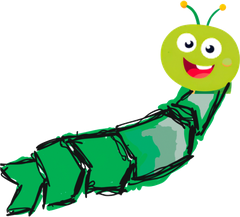
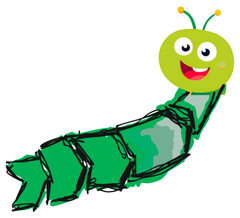
Feedback-Funktion und Wurm mit weißem Hintergrund

Changed region(s): [[0.0, 0.0, 1.0, 1.0]]

diff --git a/index.html b/index.html
@@ -192,6 +192,21 @@ pre{white-space:pre-wrap;background:var(--sunk);border-radius:10px;padding:12px;
 .nav button{flex:1;border:0;background:none;border-radius:12px;padding:8px 4px;display:flex;flex-direction:column;align-items:center;gap:2px;font-size:12.5px;font-weight:700;color:var(--muted)}
 .nav button[aria-current="page"]{background:var(--worm-soft);color:var(--worm-ink)}
 .nav svg{width:22px;height:22px}
+/* Feedback */
+.fb-card{background:var(--surface);border:1px solid var(--line);border-radius:var(--r);padding:16px;display:grid;gap:14px}
+.fb-card label{font-weight:700;display:block;margin-bottom:6px}
+.fb-card input[type=text],.fb-card input[type=email]{width:100%;border:1px solid var(--line);border-radius:10px;background:var(--surface);color:var(--fg);padding:10px 12px;font:inherit;font-size:15px}
+.fb-card input:focus-visible{outline:3px solid var(--worm);outline-offset:2px}
+.rate{display:flex;gap:8px}
+.rate button{flex:1;border:2px solid var(--line);background:var(--bg);border-radius:12px;padding:8px 2px;font-family:var(--display);font-weight:800;font-size:18px;display:flex;flex-direction:column;align-items:center;gap:2px}
+.rate button small{font-family:var(--body);font-size:11px;font-weight:700;color:var(--muted)}
+.rate button[aria-pressed="true"]{border-color:var(--worm);background:var(--worm-soft);color:var(--worm-ink)}
+.mail-box{display:flex;align-items:center;gap:10px;flex-wrap:wrap;background:var(--worm-soft);color:var(--worm-ink);border-radius:var(--r);padding:12px 14px}
+.mail-box b{font-family:var(--display);user-select:all;word-break:break-all}
+.ask{margin-top:24px;display:flex;gap:12px;align-items:center;background:var(--surface);border:1px dashed var(--soil);border-radius:var(--r);padding:14px}
+.ask p{margin:0;flex:1;min-width:0;font-size:14.5px}
+.ask .secondary{flex:none}
+.thanks{text-align:center;padding:22px}
 .toast{position:fixed;left:50%;bottom:calc(86px + env(safe-area-inset-bottom, 0px));transform:translateX(-50%);background:var(--fg);color:var(--bg);padding:10px 16px;border-radius:99px;font-weight:700;font-size:14px;opacity:0;transition:opacity .25s;pointer-events:none;z-index:20;max-width:calc(100% - 32px);text-align:center}
 .toast.show{opacity:1}
 @media (prefers-reduced-motion: reduce){*{transition:none!important;animation:none!important}}
@@ -242,6 +257,44 @@ pre{white-space:pre-wrap;background:var(--sunk);border-radius:10px;padding:12px;
     <p class="section-sub">Aufgebaut wie beim Sprachenlernen: A1 und A2 legen das Fundament, B1 und B2 machen dich sicher in der Praxis. Ab C1 wählst du deine Vertiefung, C2 ist der Blick aufs ganze Unternehmen.</p>
     <div class="depth"><span>Oberfläche</span><span>Tiefe</span></div>
     <div class="ladder" id="ladder"></div>
+    <div class="ask"><img src="wurm.png" width="44" height="40" alt="" class="wimg"><p><b>Fehlt dir ein Thema?</b> Sag's mir, dann grab ich mich rein.</p><button type="button" class="secondary" data-feedback="">Feedback geben</button></div>
+  </section>
+
+  <section class="view" id="v-feedback" hidden>
+    <h2 class="section-title">Dein Feedback</h2>
+    <p class="section-sub">Die Lernwerkstatt ist ein Hobbyprojekt und wächst mit euren Wünschen. Was hilft dir, was fehlt, worüber soll die nächste Lektion gehen?</p>
+    <form class="fb-card" id="fbForm" novalidate>
+      <div>
+        <span class="eyebrow" style="display:block;margin-bottom:6px">Wie hilfreich ist die Lernwerkstatt für dich?</span>
+        <div class="rate" id="rate" role="group" aria-label="Bewertung von 1 bis 5">
+          <button type="button" data-r="1" aria-pressed="false">1<small>kaum</small></button>
+          <button type="button" data-r="2" aria-pressed="false">2<small></small></button>
+          <button type="button" data-r="3" aria-pressed="false">3<small>okay</small></button>
+          <button type="button" data-r="4" aria-pressed="false">4<small></small></button>
+          <button type="button" data-r="5" aria-pressed="false">5<small>sehr</small></button>
+        </div>
+      </div>
+      <div><label for="fbText">Was gefällt dir, was nervt?</label>
+        <textarea id="fbText" placeholder="Ehrlich ist gut. Der Wurm verträgt das."></textarea></div>
+      <div><label for="fbTopic">Welches Thema fehlt dir?</label>
+        <input type="text" id="fbTopic" placeholder="z. B. Prozesse mit Excel dokumentieren"></div>
+      <div><label for="fbMail">Deine E-Mail <span style="font-weight:400;color:var(--muted)">(freiwillig, nur für eine Antwort)</span></label>
+        <input type="email" id="fbMail" placeholder="name@beispiel.de" autocomplete="email"></div>
+      <input type="hidden" id="fbLesson" value="">
+      <div class="hint" id="fbCtx" hidden></div>
+      <button type="submit" class="primary" id="fbSend" style="margin-top:4px">Feedback abschicken</button>
+      <p class="hint" style="margin:0">Landet direkt beim Prozesswurm. Bitte keine vertraulichen Firmendaten eintragen.</p>
+    </form>
+    <div class="fb-card thanks" id="fbThanks" hidden>
+      <img src="wurm.png" width="80" height="72" alt="" class="wimg" style="margin:0 auto">
+      <h3>Danke dir!</h3>
+      <p class="hint" style="margin:0">Dein Feedback ist unterwegs. Aus den Wünschen werden neue Lektionen.</p>
+      <button type="button" class="secondary" id="fbAgain" style="justify-self:center">Noch etwas schreiben</button>
+    </div>
+    <h3 class="section-title" style="font-size:18px">Lieber per E-Mail?</h3>
+    <div class="mail-box"><b id="mailAddr">prozesswurm@gmail.com</b>
+      <button type="button" class="secondary copy" data-copy="mailAddr">Kopieren</button>
+      <a href="mailto:prozesswurm@gmail.com?subject=Lernwerkstatt">E-Mail öffnen</a></div>
   </section>
 
   <section class="view" id="v-level" hidden></section>
@@ -329,6 +382,9 @@ Schreib einfach und ohne Fachbegriffe, so dass es ein Geschäftsführer ohne Vor
     <button type="button" data-tab="cheat">
       <svg viewBox="0 0 24 24" fill="none" stroke="currentColor" stroke-width="2" stroke-linecap="round" aria-hidden="true"><path d="M9 4h6l1 2h3v15H5V6h3z"/><path d="M9 12l2 2 4-4"/></svg>
       Spickzettel</button>
+    <button type="button" data-tab="feedback">
+      <svg viewBox="0 0 24 24" fill="none" stroke="currentColor" stroke-width="2" stroke-linejoin="round" aria-hidden="true"><path d="M4 5h16v11H9l-5 4z"/><path d="M8 9h8M8 12h5" stroke-linecap="round"/></svg>
+      Feedback</button>
   </div>
 </nav>
 <div class="toast" id="toast" role="status" aria-live="polite"></div>
@@ -514,7 +570,8 @@ function openLesson(id){
     ${l.tpl?`<div class="block"><h3>Zum Mitnehmen</h3><div class="tpl"><div class="copy-row"><b>${esc(l.tpl[0])}</b>
       <button type="button" class="secondary copy" data-copy="tpl-${id}">Kopieren</button></div><pre id="tpl-${id}">${esc(l.tpl[1])}</pre></div></div>`:''}
     <div class="block"><h3>Kurzer Check</h3>${checks}</div>
-    <button type="button" class="primary" id="finishBtn" ${isDone(id)?'':'disabled'}>${isDone(id)?'Weiter zur nächsten Lektion':(l.quiz?'Erst den Check beantworten':'Erst alle Antworten aufdecken')}</button>`;
+    <button type="button" class="primary" id="finishBtn" ${isDone(id)?'':'disabled'}>${isDone(id)?'Weiter zur nächsten Lektion':(l.quiz?'Erst den Check beantworten':'Erst alle Antworten aufdecken')}</button>
+    <div class="ask"><p>Unklar, zu trocken oder fehlt was? Sag's dem Wurm.</p><button type="button" class="secondary" data-feedback="${esc(ctx.label+' · '+l.t)}">Feedback zur Lektion</button></div>`;
   show('lesson'); window.scrollTo(0,0);
 
   v.querySelector('[data-back]').onclick = ()=> openLevel(ctx.i, ctx.key);
@@ -596,13 +653,14 @@ document.addEventListener('click', async e=>{
 
 /* Navigation */
 function show(name){
-  ['home','level','lesson','cards','cheat'].forEach(n=>$('#v-'+n).hidden = n!==name);
+  ['home','level','lesson','cards','cheat','feedback'].forEach(n=>$('#v-'+n).hidden = n!==name);
   const tab = (name==='level'||name==='lesson') ? 'home' : name;
   document.querySelectorAll('.nav button').forEach(b=>{ if(b.dataset.tab===tab) b.setAttribute('aria-current','page'); else b.removeAttribute('aria-current'); });
 }
 document.querySelectorAll('.nav button').forEach(b=>b.onclick=()=>{
   const t=b.dataset.tab; if(t==='cards'){ renderFilters(); buildQueue(); renderDeck(); }
   if(t==='home') renderLadder();
+  if(t==='feedback'){ openFeedback(''); return; }
   show(t); window.scrollTo(0,0);
 });
 $('#ladder').addEventListener('click', e=>{ const s=e.target.closest('.layer'); if(s) openLevel(+s.dataset.l); });
@@ -610,6 +668,37 @@ $('#v-level').addEventListener('click', e=>{
   const s=e.target.closest('.stop'); if(s){ openLesson(s.dataset.id); return; }
   const t=e.target.closest('[data-branch]'); if(t){ openLevel(curLevel, t.dataset.branch); return; }
   if(e.target.closest('[data-go="home"]')){ renderLadder(); show('home'); window.scrollTo(0,0); }
+});
+
+/* Feedback: landet im Google-Formular "Lernwerkstatt Feedback" */
+const FORM = `https://docs.google.com/forms/d/e/1FAIpQLSeNfVLrIUk2QDsDupR5Bur8Obm-NrljXl8FxhUSBG0wHgVneQ/formResponse`;
+const F = {rate:`entry.162698282`, text:`entry.1878057326`, topic:`entry.250781899`, mail:`entry.1416048129`, lesson:`entry.359299222`};
+let rating = 0;
+function openFeedback(ctxText){
+  $('#fbForm').hidden=false; $('#fbThanks').hidden=true;
+  $('#fbLesson').value = ctxText||'';
+  const c=$('#fbCtx'); c.hidden=!ctxText; c.textContent = ctxText ? `Bezieht sich auf: ${ctxText}` : '';
+  show('feedback'); window.scrollTo(0,0);
+}
+document.addEventListener('click', e=>{ const b=e.target.closest('[data-feedback]'); if(b) openFeedback(b.dataset.feedback); });
+$('#rate').addEventListener('click', e=>{ const b=e.target.closest('[data-r]'); if(!b) return; rating=+b.dataset.r;
+  $('#rate').querySelectorAll('button').forEach(x=>x.setAttribute('aria-pressed', String(x===b))); });
+$('#fbAgain').onclick=()=>openFeedback('');
+$('#fbForm').addEventListener('submit', async e=>{
+  e.preventDefault();
+  const text=$('#fbText').value.trim(), topic=$('#fbTopic').value.trim();
+  if(!rating && !text && !topic){ toast(`Schreib kurz was oder gib eine Bewertung`); return; }
+  const body=new URLSearchParams();
+  body.append(F.rate, rating?String(rating):``); body.append(F.text, text); body.append(F.topic, topic);
+  body.append(F.mail, $('#fbMail').value.trim()); body.append(F.lesson, $('#fbLesson').value || `allgemein`);
+  const btn=$('#fbSend'); btn.disabled=true; btn.textContent=`Wird gesendet …`;
+  try{
+    await fetch(FORM, {method:`POST`, mode:`no-cors`, body});
+    $('#fbForm').reset(); rating=0; $('#rate').querySelectorAll('button').forEach(x=>x.setAttribute('aria-pressed','false'));
+    $('#fbForm').hidden=true; $('#fbThanks').hidden=false; window.scrollTo(0,0);
+  }catch(err){
+    toast(`Hat nicht geklappt. Schreib mir gern an prozesswurm@gmail.com`);
+  }finally{ btn.disabled=false; btn.textContent=`Feedback abschicken`; }
 });
 
 stats(); renderLadder(); renderFilters(); buildQueue(); renderDeck();
